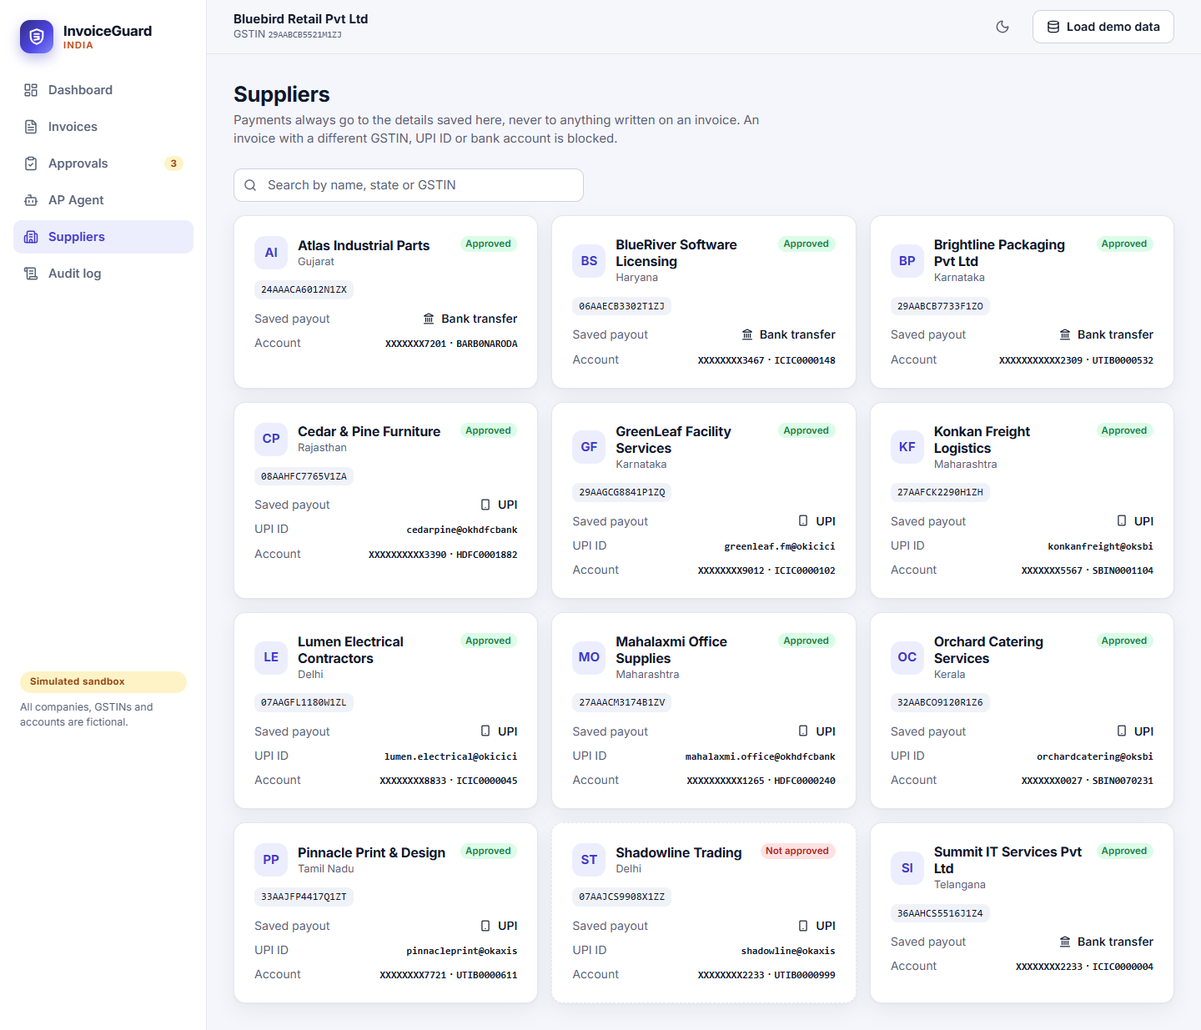
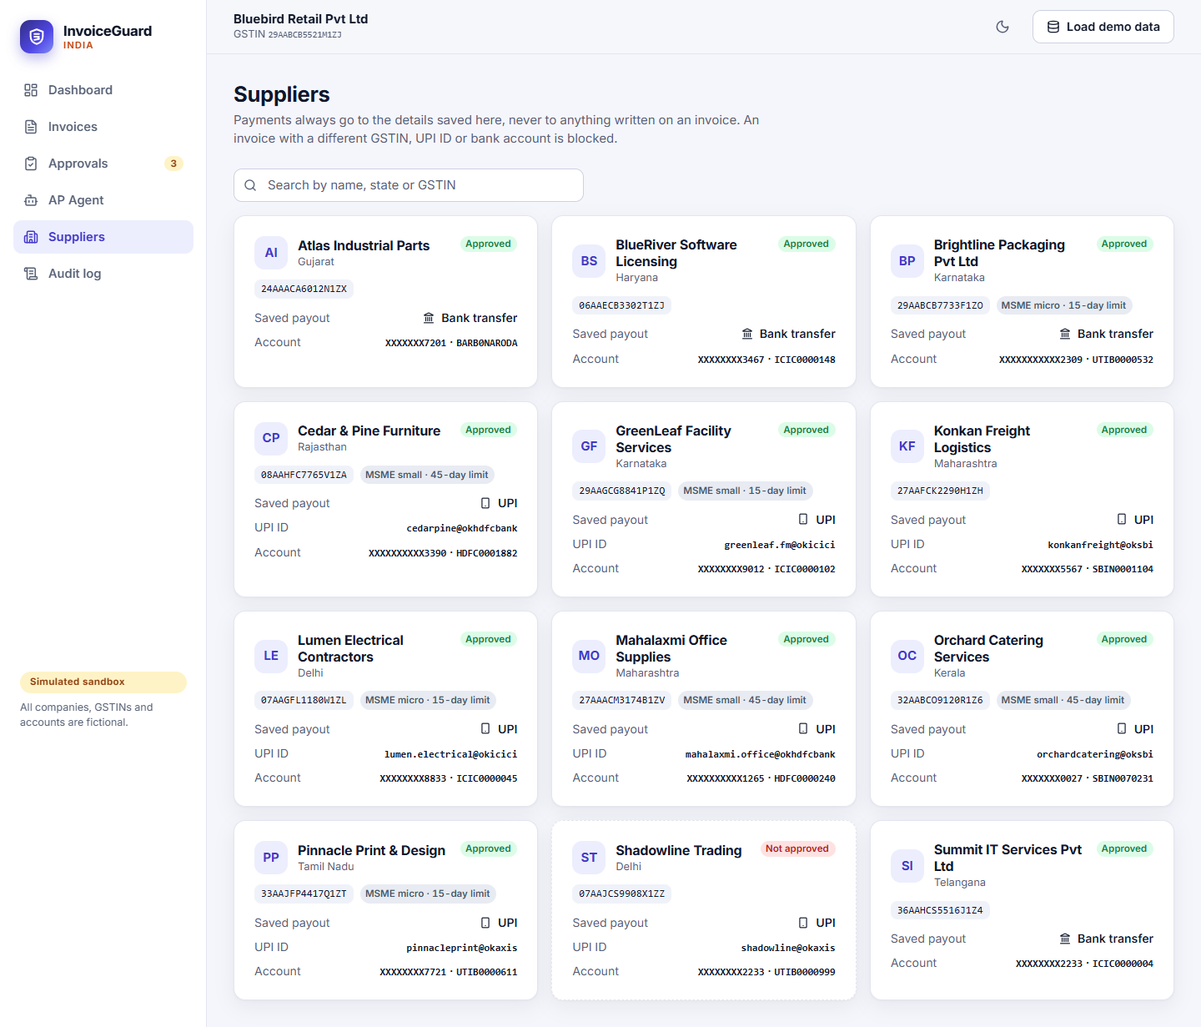
README, demo script and screenshots for the final pass

diff --git a/README.md b/README.md
@@ -1,9 +1,11 @@
 # InvoiceGuard India
 
 **An AI accounts-payable agent for Indian businesses that stops fake and wrong GST invoices before any money moves.**
-Prototype for Prasunex Innovathon, Round 3. Built from the original InvoiceGuard project and adapted to GST, INR and UPI/bank payouts.
+Prototype for Prasunex Innovathon, Round 3. Built from the original InvoiceGuard project and adapted to GST, INR, UPI/bank payouts, input tax credit and the MSME 43B(h) payment rule.
 
-> **Payouts are a simulated sandbox.** No real money moves and no bank or UPI network is contacted. The dashboard labels every payout "SIMULATED SANDBOX". All suppliers, GSTINs, bank accounts and UPI IDs in the demo are fictional.
+> **Payouts are a simulated sandbox.** No real money moves and no bank or UPI network is contacted. The dashboard labels every payout "SIMULATED SANDBOX". All suppliers, GSTINs, bank accounts and UPI IDs in the demo are fictional. The MSME timer is guidance, not tax advice.
+
+**Live demo:** <https://invoiceguard-india.onrender.com> (free plan: the first load can take about a minute to wake up; open it and click **Try with demo data**).
 
 ## Screenshots
 
@@ -11,45 +13,53 @@ Light theme by default (with a dark mode), desktop at 1440px and phone at 390px.
 
 | | |
 |---|---|
-| ![Landing page](docs/screenshots/desktop-01-landing.png) **Landing** | ![Dashboard](docs/screenshots/desktop-02-dashboard.png) **Dashboard**: KPIs, money protected over time, needs your attention |
+| ![Landing page](docs/screenshots/desktop-01-landing.png) **Landing** | ![Dashboard](docs/screenshots/desktop-02-dashboard.png) **Dashboard**: KPIs, ITC protected, money protected over time, needs your attention |
 | ![Invoices](docs/screenshots/desktop-03-invoices.png) **Invoices**: search, status chips, GST badges | ![Invoice drawer with GST failure](docs/screenshots/desktop-04-drawer-gst-fail.png) **Invoice drawer**: six-step journey, wrong tax type held |
-| ![Prompt injection blocked](docs/screenshots/desktop-06-drawer-injection.png) **Hidden prompt injection** stopped at the AI review | ![Approvals](docs/screenshots/desktop-07-approvals.png) **Approvals**: exactly why each invoice is held |
-| ![AP Agent](docs/screenshots/desktop-11-agent-proposal.png) **AP Agent**: tools used, proposal, Confirm or Dismiss | ![Suppliers](docs/screenshots/desktop-08-suppliers.png) **Suppliers**: saved GSTIN and payout details |
-| ![Audit log](docs/screenshots/desktop-09-audit.png) **Audit log** | ![Dark mode](docs/screenshots/desktop-12-dark-dashboard.png) **Dark mode** |
+| ![Approvals with MSME timers](docs/screenshots/desktop-07-approvals.png) **Approvals**: why each is held, MSME pay-by timers | ![MSME timer in the drawer](docs/screenshots/desktop-17-drawer-msme.png) **MSME timer** (Section 43B(h)) in the invoice drawer |
+| ![Corrected invoice email](docs/screenshots/desktop-14-correction-draft.png) **Ask supplier for a corrected invoice**: drafted email naming the exact GST issue | ![Approve with a reason](docs/screenshots/desktop-15-approve-reason.png) **Approve despite a GST problem** needs a reason, saved in the audit log |
+| ![Sample invoices to download](docs/screenshots/desktop-16-sample-menu.png) **Download a sample invoice** and upload it yourself | ![AP Agent](docs/screenshots/desktop-11-agent-proposal.png) **AP Agent**: instant answer, tools used, proposal with Confirm |
+| ![Prompt injection blocked](docs/screenshots/desktop-06-drawer-injection.png) **Hidden prompt injection** stopped at the AI review | ![Suppliers](docs/screenshots/desktop-08-suppliers.png) **Suppliers**: saved GSTIN, payout details, MSME class |
+| ![Audit log](docs/screenshots/desktop-09-audit.png) **Audit log** (IST) | ![Dark mode](docs/screenshots/desktop-12-dark-dashboard.png) **Dark mode** |
 
 On a phone the sidebar becomes a bottom tab bar and the table becomes cards:
 
 <p>
-  <img src="docs/screenshots/mobile-01-landing.png" width="190" alt="Mobile landing">
-  <img src="docs/screenshots/mobile-02-dashboard.png" width="190" alt="Mobile dashboard">
-  <img src="docs/screenshots/mobile-03-invoices.png" width="190" alt="Mobile invoices">
-  <img src="docs/screenshots/mobile-04-drawer-gst-fail.png" width="190" alt="Mobile invoice drawer">
+  <img src="docs/screenshots/mobile-01-landing.png" width="170" alt="Mobile landing">
+  <img src="docs/screenshots/mobile-02-dashboard.png" width="170" alt="Mobile dashboard">
+  <img src="docs/screenshots/mobile-03-invoices.png" width="170" alt="Mobile invoices">
+  <img src="docs/screenshots/mobile-04-drawer-gst-fail.png" width="170" alt="Mobile invoice drawer">
+  <img src="docs/screenshots/mobile-07-approvals.png" width="170" alt="Mobile approvals">
 </p>
 <p>
-  <img src="docs/screenshots/mobile-07-approvals.png" width="190" alt="Mobile approvals">
-  <img src="docs/screenshots/mobile-11-agent-proposal.png" width="190" alt="Mobile AP agent">
-  <img src="docs/screenshots/mobile-12-dark-dashboard.png" width="190" alt="Mobile dark mode">
+  <img src="docs/screenshots/mobile-14-correction-draft.png" width="170" alt="Mobile corrected-invoice draft">
+  <img src="docs/screenshots/mobile-17-drawer-msme.png" width="170" alt="Mobile MSME timer">
+  <img src="docs/screenshots/mobile-11-agent-proposal.png" width="170" alt="Mobile AP agent">
+  <img src="docs/screenshots/mobile-12-dark-dashboard.png" width="170" alt="Mobile dark mode">
 </p>
 
 ## The problem
 
-A small Indian business receives supplier invoices as PDFs and pays them by UPI or bank transfer. Three things go wrong:
+A small Indian business receives supplier invoices as PDFs and pays them by UPI or bank transfer. Four things go wrong:
 
 1. **Fraud**: fake suppliers, duplicate invoices, "our bank details have changed" emails, invoices with hidden text aimed at AI tools.
-2. **GST mistakes**: an invalid or made-up GSTIN, IGST charged where CGST+SGST applies (or the reverse), a GST total that does not add up. These cost the buyer input tax credit and create notices later.
-3. **Manual checking** that is slow, so mistakes slip through at month end.
+2. **GST mistakes**: an invalid or made-up GSTIN, IGST charged where CGST+SGST applies (or the reverse), a GST total that does not add up. These cost the buyer **input tax credit (ITC)** and create notices later.
+3. **MSME deadlines**: payments to micro and small suppliers that run past 45 or 15 days make the expense non-deductible for the year (Section 43B(h)). Nobody is watching the clock.
+4. **Manual checking** that is slow, so mistakes slip through at month end.
 
 ## What it does
 
-Upload an invoice PDF. InvoiceGuard India reads it with Gemini, runs it through GST and fraud checks written as plain code, and then **pays it, holds it for a person, or blocks it**, always with a plain-English reason, a per-invoice GST report and an audit-log entry.
+Upload an invoice PDF. InvoiceGuard India reads it with Gemini, runs it through GST and fraud checks written as plain code, and then **pays it, holds it for a person, or blocks it**, always with a plain-English reason, a per-invoice GST report and an audit-log entry (timestamps in **IST**).
 
 - **GST-aware extraction**: supplier and buyer GSTIN, place of supply, HSN/SAC per line, GST rate, taxable value, CGST/SGST/IGST and total.
-- **GST checks in code** (see below), shown per invoice as a pass/fail list.
+- **GST checks in code** (below), shown per invoice as a pass/fail list and as a step in the invoice's journey.
+- **A path for GST failures**: on an on-hold invoice with a GST problem, **Ask supplier for a corrected invoice** drafts an email naming the exact issue (copy it or open it in your mail app; nothing is sent) and logs the request. If you still choose **Approve & pay**, you must give a short reason, which is saved in the audit log. A block-level failure such as a fake GSTIN can never be approved.
+- **ITC protected**: the dashboard totals the GST on blocked invoices with an invalid GSTIN or a GST error, with the GST still at risk on held ones shown separately.
+- **MSME payment timer**: suppliers marked micro or small get a **Pay by** date and days left, with an alert when 7 days or fewer remain.
 - **INR throughout** with Indian number formatting (`₹1,24,000.00`, lakh and crore groupings on the dashboard).
-- **Payouts** to the supplier's *saved* UPI ID or bank account, by UPI, IMPS or RTGS depending on the amount.
-- **Idempotent payouts and HOLD-on-failure**: a retry can never pay twice; if a payout fails, the invoice goes back on hold with the reason.
-- **AP agent with propose-then-confirm**: ask in plain English ("pay the held invoice from Cedar & Pine"); the agent can only recommend, you confirm with a click, and every check is re-run at that moment.
-- **Dashboard**: a fintech-style app with a landing page ("Try with demo data"), sidebar navigation (bottom tab bar on phones), KPI cards, a money-protected chart, a "Needs your attention" list with one-tap actions, an invoice table with search and filters, and an **invoice drawer** that shows each invoice's journey (Read, GST checks, Rule checks, AI review, Decision, Payout) with a pass or fail and a plain-English reason at every step. Light and dark themes, keyboard and screen-reader friendly. Deep links such as `/#/invoices/8` open an invoice directly.
+- **Payouts** to the supplier's *saved* UPI ID or bank account, by UPI, IMPS or RTGS depending on the amount. Idempotent, with HOLD-on-failure.
+- **AP agent with propose-then-confirm**: ask in plain English; the agent can only recommend, you confirm with a click, and every check is re-run at that moment. The three suggested prompts answer **instantly** (see below).
+- **Try it yourself**: a **Download a sample invoice** menu next to Upload gives three realistic PDFs (two valid, one with a GST problem) to upload.
+- **A fintech-style dashboard**: landing page, sidebar (bottom tab bar on phones), KPI cards, chart, invoice table with search and filters, an **invoice drawer** with a six-step journey (Read, GST checks, Rule checks, AI review, Decision, Payout), light and dark themes, keyboard and screen-reader friendly. Deep links like `/#/invoices/8` open an invoice directly.
 
 ## How the GST checks work
 
@@ -68,15 +78,30 @@ All in `backend/app/gst.py`, pure functions with no AI and no network. Each retu
 | CGST = SGST | the two halves are equal | Hold |
 | Invoice total | taxable value + GST | Hold |
 
-Fraud checks alongside them (`checks.py`): duplicate invoice, purchase-order match, approved-supplier list, **payee check** (a UPI ID or bank account printed on the invoice that differs from the saved one is blocked), per-payment and daily limits. Then Gemini does a separate review for scam signals and hidden instructions.
+Fraud checks alongside them (`checks.py`): duplicate invoice, purchase-order match, approved-supplier list, **payee check** (a UPI ID or bank account printed on the invoice that differs from the saved one is blocked), per-payment and daily limits (the daily limit counts the IST day). Then Gemini does a separate review for scam signals and hidden instructions.
 
 The decision (`decide.py`) is a small pure function: any block-level finding or high AI risk blocks; any hold-level finding, medium risk or an AI failure holds; otherwise the invoice is auto-paid. **Only that function or an explicit owner click can lead to a payment.**
+
+### Input tax credit (ITC)
+A buyer can claim ITC only on a valid tax invoice from a real, correctly identified supplier with the right tax charged. The **ITC protected** card adds up the GST amount (CGST + SGST + IGST) on blocked or rejected invoices that failed a GST check. Invoices still on hold with a GST failure are shown as "at risk until you decide". Paying an invoice anyway does not remove the risk, which is why approving one asks for a reason.
+
+### MSME payment timer (Section 43B(h))
+`backend/app/msme.py`. Under Section 43B(h) of the Income-tax Act, an amount owed to a **micro or small enterprise** is deductible for the year only if it is paid within the time allowed by the MSMED Act: **45 days with a written agreement, otherwise 15 days**, counted from the day of acceptance.
+
+- Each supplier is marked micro, small or neither, with a flag for a written agreement (`seed/data.py`).
+- Each invoice stores an IST **accepted date**. Pay by = accepted date + 45 or 15 days. Days left = pay by minus today (IST).
+- States: **ok**, **soon** (7 days or fewer left, amber alert) and **overdue** (red alert). Paid invoices no longer show a timer.
+- Shown on Approvals, the invoice drawer, the "Needs your attention" list and Suppliers, always with a note that this is guidance, not tax advice.
+- Uploaded invoices are accepted today. In the demo, acceptance dates are set relative to the day you load it (Cedar & Pine 5 days left, Pinnacle 2, Orchard 25) so the countdown is meaningful whenever you run it.
 
 ### Why it is safe against prompt injection
 - The AI never pays anything. It returns schema-validated JSON; plain code decides.
 - The payee is always the saved UPI ID or account, never one written on the invoice.
 - If the AI review is unavailable or malformed, the invoice is held, never auto-paid.
 - Clear signals (hidden instructions to an AI) have a minimum risk floor in code, so a model that under-scores them still gets blocked.
+
+### The AP agent and its instant answers
+The agent (`agent.py`) has three tools (list invoices, run checks, propose payment) and **no payment tool**. For speed, the three suggested prompts were **recorded once from a real Gemini run** on the demo data (`seed/agent_cache.json`, rebuilt with `python -m seed.export_agent_cache`). At runtime the recorded tool calls are replayed against the live invoices, so the proposal is always computed fresh by code and only Gemini's wording is reused; the answer is tagged "Instant demo answer". If the invoices have changed from the recorded state, or you ask anything else, it calls Gemini live.
 
 ## Payouts
 
@@ -96,7 +121,7 @@ Needs Python 3.12 and Node 20.
 # backend
 cd backend
 pip install -r requirements.txt
-cp ../.env.example ../.env          # GEMINI_API_KEY is optional: the demo data is cached
+cp ../.env.example ../.env          # GEMINI_API_KEY is optional: the demo data and sample invoices are cached
 python -m uvicorn app.main:app --port 8000
 
 # frontend (second terminal): dev server with API proxy, or build once for the backend to serve
@@ -106,22 +131,19 @@ npm run dev                         # http://localhost:5173
 # or: npm run build                 # then open http://localhost:8000
 ```
 
-Without a `GEMINI_API_KEY` the 13 sample invoices still work instantly because their Gemini results are cached in `backend/seed/gemini_cache.json` (real Gemini output, saved by `python -m seed.export_cache`). **Uploading a new PDF needs a key.** On Render the key is optional for the same reason.
+Without a `GEMINI_API_KEY`, the 13 demo invoices, the 3 downloadable samples and the three agent chips all work, because their Gemini results are cached (real Gemini output). **Uploading your own new PDF, or asking the agent something else, needs a key.**
 
 **Deploy**: `render.yaml` defines a Docker web service named `invoiceguard-india` (separate from the original). The free plan has no persistent disk, so SQLite is re-created and re-seeded on every start.
 
 ## Demo steps
 
-1. Open the app and click **Try with demo data**. Thirteen invoices are processed in a few seconds.
-2. Read the summary cards, then open the Invoices tab. Failed GST checks are expanded in red.
-3. Walk through the cases (see [DEMO_SCRIPT.md](DEMO_SCRIPT.md) for a 3-minute flow): fake GSTIN, wrong tax type, wrong GST total, duplicate, changed payee, hidden prompt injection.
-4. Open **Approvals** and approve the Cedar & Pine partial delivery, or ask the **AP agent** to propose it and confirm.
+See [DEMO_SCRIPT.md](DEMO_SCRIPT.md) for the 3-minute flow. In short: click **Try with demo data**; read the cards (including ITC protected); open the failing invoices and read the red GST line; ask a supplier for a corrected invoice; approve one with a reason; watch the MSME timers on Approvals; ask the AP agent to pay the Cedar & Pine invoice and confirm; or download a sample invoice and upload it yourself.
 
 ## Tests and evaluation
 
 ```bash
 cd backend
-python -m pytest                    # 136 tests: GST, checks, payouts, pipeline, timeline, agent, Gemini handling, seed data
+python -m pytest                    # 174 tests: GST, checks, payouts, pipeline, timeline, MSME, agent and its cache, samples, IST
 python -m eval.run_eval             # uses the cached Gemini results; add --live-gemini to call Gemini
 ```
 
@@ -135,12 +157,15 @@ Result on the 12 labelled invoices (5 valid, 7 fraud or error cases):
 
 "Caught" means not auto-paid. Wrong tax type and wrong GST total are **held** for a person (they can be honest mistakes); the rest are **blocked**. This is a small, hand-built test set, so read it as a demonstration that the checks work, not as a measured production accuracy.
 
+A browser-level check of the live site is recorded in [FINAL_REPORT.md](FINAL_REPORT.md).
+
 ## Project layout
 
 ```
-backend/app/   gst.py (GST rules)  checks.py (fraud rules)  decide.py  extract.py  ai_review.py
-               payouts.py  pipeline.py  agent.py  routes.py  money.py
-backend/seed/  data.py (fictional suppliers and invoices)  make_pdfs.py  gemini_cache.json  invoices/
+backend/app/   gst.py (GST rules)  checks.py (fraud rules)  decide.py  extract.py  ai_review.py  payouts.py
+               pipeline.py  timeline.py  corrections.py  msme.py  agent.py  routes.py  money.py  timeutil.py
+backend/seed/  data.py (fictional suppliers and invoices)  make_pdfs.py  gemini_cache.json  agent_cache.json
+               invoices/ (13 demo PDFs)  upload_samples/ (3 downloadable PDFs)
 backend/eval/  run_eval.py        backend/tests/
 frontend/      React + TypeScript dashboard (Vite, lucide icons, Inter font; no UI framework)
 docs/          screenshots used in this README

diff --git a/DEMO_SCRIPT.md b/DEMO_SCRIPT.md
@@ -1,45 +1,44 @@
 # InvoiceGuard India: 3-minute demo script
 
-Setup: open the app (wake a free Render server first, it can take about a minute). The demo data is cached, so loading it is instant and needs no API key. Only the AP agent step at the end needs `GEMINI_API_KEY` set (on Render, set it in the dashboard). Say once, early: **payouts are a simulated sandbox, no real money moves.**
+Setup: open <https://invoiceguard-india.onrender.com> (a sleeping free server can take about a minute to wake: open it a minute early). The demo data, the sample invoices and the three agent prompts are cached, so nothing here needs an API key. Say once, early: **payouts are a simulated sandbox, no real money moves.**
 
-## 0:00 to 0:25 The problem and the pitch
+## 0:00 to 0:20 The problem and the pitch
 
-"Indian businesses pay suppliers from PDF invoices. Fake GSTINs, wrong tax type, edited bank details and duplicate invoices slip through, and wrong GST costs you input tax credit. InvoiceGuard India checks every invoice in code before a rupee moves."
+"Indian businesses pay suppliers from PDF invoices. Fake GSTINs, wrong tax type, edited bank details, duplicates and missed MSME deadlines cost real money and input tax credit. InvoiceGuard India checks every invoice in code before a rupee moves."
 
-Point at the one-line pitch on the landing page. Click **Try with demo data**.
+Point at "Stop fraud before money moves". Click **Try with demo data**.
 
-## 0:25 to 0:55 The result at a glance
+## 0:20 to 0:45 The dashboard
 
-13 invoices have just been processed. Point at the cards:
-- **Paid ₹7.16 L**: 5 valid invoices, paid automatically.
-- **Blocked 5** and **On hold 3**.
-- "Fraud and errors stopped": about ₹12.8 L blocked, plus the held ones.
+13 invoices have just been processed (times are in IST). Point at:
+- **Paid ₹7.16 L**: 5 valid invoices paid automatically. **Blocked 5**, **On hold 3**.
+- **ITC protected ₹46,580**: "the GST on a blocked invoice with a fake GSTIN. Paying it would have put our input tax credit at risk. ₹20,100 more is at risk on two held invoices."
 
-Say: "Evaluation on the 12 labelled invoices: 7 of 7 fraud and error cases caught, 0 of 5 valid invoices wrongly held."
+## 0:45 to 1:25 GST checks and a blocked fraud case (Invoices)
 
-## 0:55 to 2:10 Walk through the cases (Invoices tab, scroll down)
+Open **Atlas Industrial Parts** (fake GSTIN). In the journey: "GST checks failed: the number is the right shape but its check character fails the GSTIN checksum, so it is not a real registration. Blocked, and the AI call was skipped."
 
-For each, open the **GST checks** panel and read the red line:
+Then open **BlueRiver Software**: "All GST checks pass, but white text in the PDF tells an AI agent to skip checks and pay. The AI review catches it and code blocks it. The AI can never approve a payment." Quickly mention duplicate (Mahalaxmi) and changed payee (Lumen).
 
-1. **Fake GSTIN (Atlas Industrial Parts)**: "The number is the right shape, but its check character fails the GSTIN checksum, so it is not a real registration. Blocked."
-2. **Wrong tax type (Pinnacle Print)**: "Tamil Nadu supplier, Karnataka buyer, so IGST applies. The invoice charges CGST and SGST. Held for a person."
-3. **Wrong GST total (Orchard Catering)**: "Taxable ₹78,000 plus 5% GST is ₹81,900. The invoice says ₹87,600. Held."
-4. **Duplicate (Mahalaxmi)**: "Same invoice number as invoice 1. Blocked."
-5. **Changed payee (Lumen Electrical)**: "The invoice asks for a new UPI ID and bank account. We only ever pay the saved details, and a mismatch is blocked."
-6. **Hidden prompt injection (BlueRiver)**: "White text in the PDF tells an AI agent to skip checks and pay. The AI review flags it and code blocks it. The AI can never approve a payment."
+## 1:25 to 2:00 Corrected invoice, then approve with a reason (Approvals)
 
-## 2:10 to 2:35 A good invoice and the payout
+Open **Approvals**. Pinnacle Print: "Tamil Nadu supplier, Karnataka buyer, so IGST applies, but the invoice charges CGST and SGST." Click **Ask supplier for a corrected invoice**: "It drafts an email naming the exact GST issue and logs the request. Nothing is sent." Close it.
 
-Scroll to a **Paid** invoice (for example Summit IT). "All nine GST checks pass. It was paid by RTGS to the saved account, shown masked. A retry cannot pay twice, and if a payout fails the invoice goes back on hold with the reason."
+Now click **Approve & pay** on Orchard Catering (wrong GST total): "Because there is a GST problem, I must give a reason before it can be paid." Type a reason, approve. "The reason is saved in the audit log." (Open the Audit log to show it, with the IST time.)
 
-## 2:35 to 3:00 Propose, then confirm
+## 2:00 to 2:25 MSME timer
 
-Open **AP agent**, click "Pay the Cedar & Pine Furniture invoice", press **Ask the agent**. "The agent can only recommend. It has no payment tool." Click **Confirm and pay**: "Every check is re-run at this moment, then the saved UPI ID is paid." Finish on the Audit log: "Every decision is recorded."
+Back on **Approvals**: "Pinnacle is a micro supplier with no written agreement: the 15-day Section 43B(h) limit, **pay by 2 days from now**, shown in red amber. Cedar & Pine is a small supplier with a written agreement: 45 days, 5 left. Pay late and the expense is not deductible this year. This is guidance, not tax advice."
 
-Close: "GST rules in code, AI only for reading and flagging, a human or the decision function for money. Simulated payouts today; a real payout provider plugs into the same adapter."
+## 2:25 to 3:00 AP agent, and try it yourself
+
+Open **AP Agent**, click "Pay the Cedar & Pine Furniture invoice": "Instant, tools shown, and it only proposes." Click **Confirm and pay**: "Every check is re-run now, then the saved UPI ID is paid."
+
+Close: "Judges can try the real upload flow: Invoices, **Download a sample invoice**, then Upload. GST rules in code, AI only for reading and flagging, a person or the decision function for money."
 
 ## If something goes wrong
 
 - Page stuck loading: the free server is waking up, wait up to a minute.
-- Agent shows an error: it needs Gemini (key and quota). Use **Approvals** and click Approve & pay instead.
-- Want a clean slate: click **Reload demo data**.
+- Agent chips are instant; a free-typed question needs `GEMINI_API_KEY` (set in the Render dashboard) and may be slow or out of quota. Use **Approvals** instead.
+- Uploading the same sample twice is blocked as a duplicate (that is the duplicate check working). Click **Load demo data** for a clean slate.
+- A sample or demo MSME timer shows different days if the demo was loaded on a different day: the dates are set relative to the load day.

diff --git a/PROGRESS.md b/PROGRESS.md
@@ -23,3 +23,4 @@ Prasunex Innovathon Round 3. Built from the original InvoiceGuard repo. Each ste
 - [x] 4. Dashboard "ITC protected" card: GST on blocked/rejected invoices with an invalid GSTIN or GST error, plus a separate "still at risk on held invoices" line; one-line explanation on the card. 3 tests.
 - [x] 5. MSME payment timer (Section 43B(h), guidance only): suppliers marked micro/small with a written-agreement flag; pay-by date and days left (45 days with an agreement, 15 without) from the invoice's acceptance date; alert when 7 days or fewer remain or overdue; shown on Approvals, the invoice drawer, the attention list and Suppliers. Demo acceptance dates are set relative to today so the countdown is meaningful (Cedar 5 days left, Pinnacle 2, Orchard 25). 8 tests.
 - [x] 6. AP agent instant answers: the 3 suggested chips were recorded from a real Gemini run on the demo state (`seed/agent_cache.json`, `python -m seed.export_agent_cache`); at runtime the recorded tool calls are replayed against the live checks (proposals always fresh, no Gemini call) and tagged "Instant demo answer". A changed invoice state or any other question goes to live Gemini. 9 tests.
+- [x] 7. README rewritten (features, screenshots, GST + ITC + MSME + instant-agent explanations) and DEMO_SCRIPT.md (3 minutes: GST checks, blocked fraud, corrected-invoice request, approve with reason, MSME timer, AP agent, try it yourself). 23 fresh screenshots in docs/screenshots (desktop 1440px, phone 390px).
